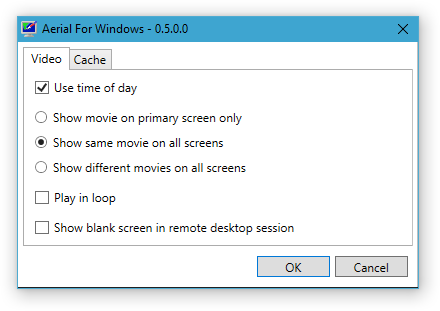
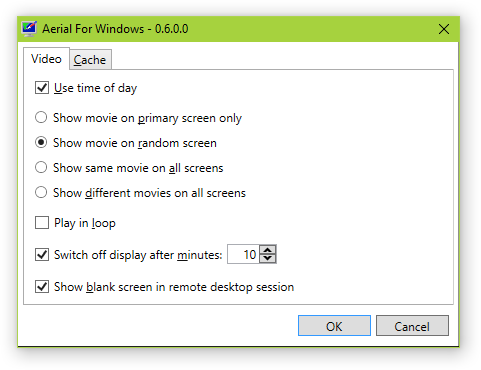
updated to v0.6

Changed region(s): [[0.0295, 0.0289, 0.975, 0.955]]

diff --git a/AerialForWindows/SettingsView.xaml b/AerialForWindows/SettingsView.xaml
@@ -43,7 +43,7 @@
                     </Grid.RowDefinitions>
                     <CheckBox
                         Grid.Row="0"
-                        Margin="5 5 5 10"
+                        Margin="5,5,5,10"
                         Content="_Use time of day"
                         IsChecked="{Binding UseTimeOfDay}" />
 
@@ -55,32 +55,32 @@
                     <RadioButton
                         Grid.Row="2"
                         Margin="5"
-                        Content="Show same movie on _all screens"
-                        IsChecked="{Binding MovieWindowsMode, Converter={StaticResource EnumBooleanConverter}, ConverterParameter=AllScreensSameMovie}" />
+                        Content="Show movie on _random screen"
+                        IsChecked="{Binding MovieWindowsMode, Converter={StaticResource EnumBooleanConverter}, ConverterParameter=RandomScreen}" />
                     <RadioButton
                         Grid.Row="3"
                         Margin="5"
-                        Content="Show _different movies on all screens"
-                        IsChecked="{Binding MovieWindowsMode, Converter={StaticResource EnumBooleanConverter}, ConverterParameter=AllScreenDifferentMovies}" />
+                        Content="Show same movie on _all screens"
+                        IsChecked="{Binding MovieWindowsMode, Converter={StaticResource EnumBooleanConverter}, ConverterParameter=AllScreensSameMovie}" />
                     <RadioButton
                         Grid.Row="4"
                         Margin="5"
-                        Content="Show movier on _random screen"
-                        IsChecked="{Binding MovieWindowsMode, Converter={StaticResource EnumBooleanConverter}, ConverterParameter=RandomScreen}" />
+                        Content="Show _different movies on all screens"
+                        IsChecked="{Binding MovieWindowsMode, Converter={StaticResource EnumBooleanConverter}, ConverterParameter=AllScreenDifferentMovies}" />
 
                     <CheckBox
                         Grid.Row="5"
-                        Margin="5 10 5 5"
+                        Margin="5,10,5,5"
                         Content="Play in _loop"
                         IsChecked="{Binding PlayInLoop}" />
 
                     <CheckBox
                         Grid.Row="6"
-                        Margin="5 10 5 5"
+                        Margin="5,10,5,5"
                         VerticalContentAlignment="Center"
                         IsChecked="{Binding SwitchOffMonitorsEnabled}">
                         <StackPanel Orientation="Horizontal">
-                            <Label Content="Switch off display after _minutes:" Padding="0 2 5 0"/>
+                            <Label Padding="0,2,5,0" Content="Switch off display after _minutes:" />
                             <xctk:IntegerUpDown
                                 Width="50"
                                 IsEnabled="{Binding SwitchOffMonitorsEnabled}"
@@ -92,7 +92,7 @@
 
                     <CheckBox
                         Grid.Row="7"
-                        Margin="5 10 5 5"
+                        Margin="5,10,5,5"
                         Content="Show _blank screen in remote desktop session"
                         IsChecked="{Binding BlankOnRemoteDesktop}" />
                 </Grid>
@@ -121,7 +121,7 @@
                     <Label
                         Grid.Row="1"
                         Grid.Column="0"
-                        Margin="20 0 0 0"
+                        Margin="20,0,0,0"
                         Content="Cache pa_th:"
                         IsEnabled="{Binding ShouldCacheMovies}" />
                     <TextBox
@@ -135,7 +135,7 @@
                         Grid.Row="1"
                         Grid.Column="2"
                         Width="{Binding RelativeSource={RelativeSource Self}, Path=ActualHeight}"
-                        Margin="5 0 0 0"
+                        Margin="5,0,0,0"
                         Command="{Binding BrowseCachePathCommand}"
                         Content="..."
                         IsEnabled="{Binding ShouldCacheMovies}" />
@@ -158,13 +158,13 @@
 
         <StackPanel
             Grid.Row="2"
-            Margin="5 10 5 5"
+            Margin="5,10,5,5"
             HorizontalAlignment="Right"
             Orientation="Horizontal">
             <Button
                 MinWidth="73"
                 MinHeight="21"
-                Margin="0 0 5 0"
+                Margin="0,0,5,0"
                 Command="{Binding OkCommand}"
                 Content="OK"
                 IsDefault="True" />

diff --git a/AerialForWindows/Properties/AssemblyInfo.cs b/AerialForWindows/Properties/AssemblyInfo.cs
@@ -8,9 +8,9 @@ using System.Windows;
 [assembly: AssemblyTitle("Aerial For Windows")]
 [assembly: AssemblyDescription("")]
 [assembly: AssemblyConfiguration("")]
-[assembly: AssemblyCompany("")]
+[assembly: AssemblyCompany("Thomas Freudenberg")]
 [assembly: AssemblyProduct("Aerial For Windows")]
-[assembly: AssemblyCopyright("Copyright ©  2015")]
+[assembly: AssemblyCopyright("Copyright © Thomas Freudenberg 2015-2017")]
 [assembly: AssemblyTrademark("")]
 [assembly: AssemblyCulture("")]
 
@@ -48,5 +48,5 @@ using System.Windows;
 //
 // You can specify all the values or you can default the Build and Revision Numbers
 // by using the '*' as shown below:
-[assembly: AssemblyVersion("0.5.0.0")]
-[assembly: AssemblyFileVersion("0.5.0.0")]
+[assembly: AssemblyVersion("0.6.0.0")]
+[assembly: AssemblyFileVersion("0.6.0.0")]

diff --git a/readme.md b/readme.md
@@ -26,7 +26,7 @@ After successful installation the setup will open the **Screen Saver Settings** 
 * **Time of day:** There are different movies for day and night. You can choose to show movies matching the current time (thresholds are 7am and 7pm). 
 * **Select screens:** If you've got multiple screens, you can select whether there's a movie played only on the primary screen, the same move on all screens, or a different movie on each screen.
 * **Auto-update:** Both the movie window and the settings dialog show a notification when an update is available.
-* **Local Caching:** Option to cache the movies locally. **Note:** This required at least 6 GB of free disk space.
+* **Local Caching:** Option to cache the movies locally. **Note:** This required at least **12 GB** of free disk space.
 
 ![Screen Saver Settings Page 1](assets/SettingsPage1.png)![Screen Saver Settings Page 2](assets/SettingsPage2.png)
 
@@ -49,6 +49,9 @@ I appreciate all pull requests.
 
 ## Changelog
 
+* **April 23, 2017 - v0.6**
+  * Added option to play movie on one random screen (#5)
+  * Added option to switch off screens after a configurable interval (#6)
 * **October 23, 2016 - v0.5**
   * Added choice to either play the same video in a loop, or show a new one.
   * Added option to show blank screen in remote desktop sessions
